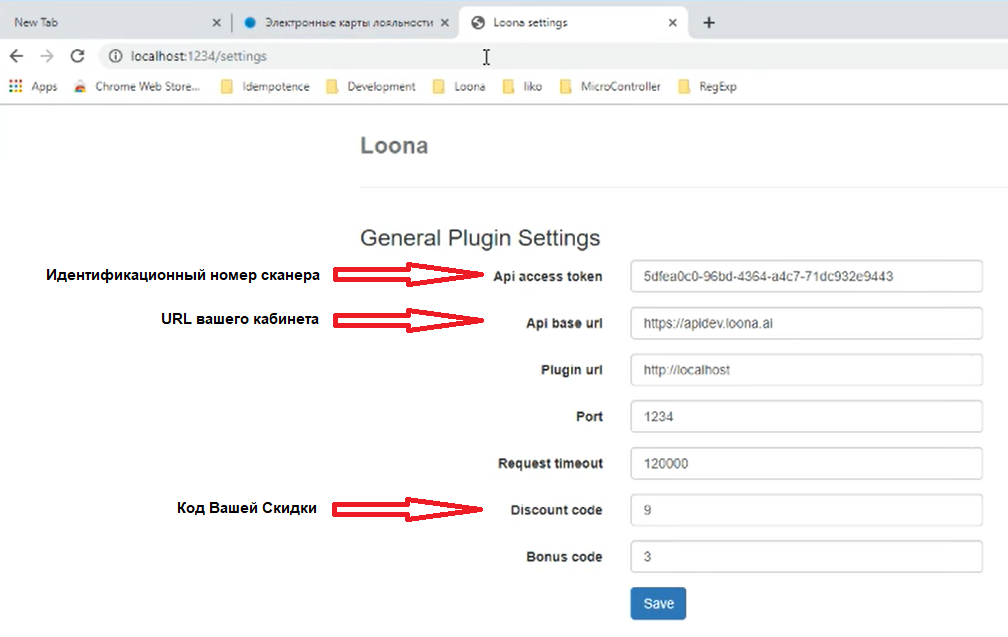
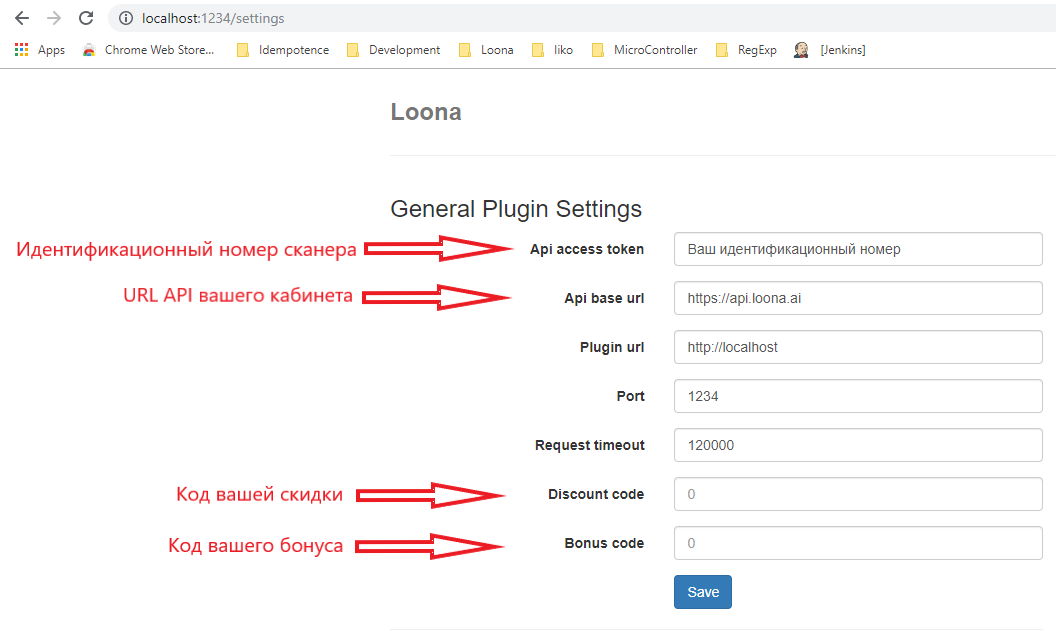
publish: Added scanner create and edit for iiko and rkeeper
generated from commit fb3f4aec2582de35fa8f2f8dd557f40efba5722a

diff --git a/guides/integration.html b/guides/integration.html
@@ -203,6 +203,9 @@
                   <li>
                     <a href="#b022bdab41-2" class="toc-h2 toc-link" data-title="Установка плагина">Установка плагина</a>
                   </li>
+                  <li>
+                    <a href="#4f6db5306b-2" class="toc-h2 toc-link" data-title="Настройки в кабинете">Настройки в кабинете</a>
+                  </li>
               </ul>
           </li>
       </div>
@@ -212,31 +215,26 @@
       <div class="content">
         <h1 id='iiko'>iiko</h1><h2 id='b022bdab41'>Установка плагина</h2>
 <ul>
-<li><p>Копируем папку LoonaPluginSettings в C:\Users\YourUserName\ProgramData\Roaming </p></li>
+<li><p>Копируем папку LoonaPluginSettings в C:\Users\YourUserName\ProgramData </p></li>
 <li><p>Копируем папки LoonaPlugin и iikoWaiter5 в директорию iikoFront/Plugins (в нашем случае C:\Program Files\iiko\iikoRMS\Front.Net\Plugins)</p></li>
 <li><p>Запускаем iiko Front (помним что для данного метода нужна лицензии типа iikoTableService, iikoWaiter, iikoFrontPaymentPlugin)</p></li>
-<li><p>В iiko Front переходим в раздел “Дополнения” и выбираем “Loona settings”.</p></li>
+<li><p>В iiko Front переходим в раздел “Дополнения” и выбираем “Loona settings”</p></li>
+<li><p>Введите Логин и Пароль</p></li>
 </ul>
 
-<blockquote>
-<p>Login - Admin<br>
-   Password - Loona Admin</p>
-</blockquote>
-
-<p><img src="../images/iiko1.PNG" width="910" height="456">
-- Задаем настройки</p>
-
-<blockquote>
-<p>Api access token - по запросу<br>
-    Api base url - https://apidev.loona.ai<br>
-    Waiter request url - http://localhost<br>
-    Waiter port - 1234</p>
-
-<p><img src="../images/iiko2.png" width="512" height="288" alt="Card Flip"></p>
-</blockquote>
+<p><img src="../images/iiko1.PNG" width="910" height="456"></p>
 
 <ul>
-<li>Открываем iiko Office
+<li><p>Задаем настройки:</p>
+
+<ul>
+<li>Api access token - по запросу<br></li>
+<li>Api base url - https://apidev.loona.ai<br></li>
+<li>Waiter request url - http://localhost<br></li>
+<li>Waiter port - 1234
+<img src="../images/iiko2.png" width="512" height="288" alt="Card Flip"></li>
+</ul></li>
+<li><p>Открываем iiko Office</p>
 
 <ul>
 <li>Переходим в раздел Дисконтная Система -&gt; Скидки и Надбавки</li>
@@ -259,34 +257,73 @@
 <li>Тип ставим “Фиксированная сумма” и обязательно устанавливаем галочку “Назначать сумму”</li>
 </ul>
 
-<p><img src="../images/iiko5.PNG" width="910" height="490" alt="Card Flip"></p>
+<p><img src="../images/iiko5.png" width="910" height="490" alt="Card Flip"></p>
 
 <ul>
 <li><p>Нажимаем Далее и заканчиваем установку скидки.</p></li>
 <li><p>Добавляем внешний вид оплаты. Переходим в раздел “Розничные продажи”  нажимаем на “Тип платы” и добавляем новую оплату. </p></li>
 <li><p>Обязательно указываем: </p>
 
-<blockquote>
-<p>Наименование - Loona Payment<br>
-    Тип - Внешний тип оплаты<br>
-    Название в чеке - пишите что хотите<br>
-    Безналичный тип - Loona Payment</p>
-</blockquote></li>
+<ul>
+<li>Наименование - LoonaPayment<br></li>
+<li>Тип - Внешний тип оплаты<br></li>
+<li>Название в чеке - пишите что хотите<br></li>
+<li>Безналичный тип - Loona Payment</li>
+</ul></li>
 <li><p>Сохраняем</p></li>
 </ul>
 
-<p><img src="../images/iiko6.png" width="512" height="266" alt="Card Flip"></p>
+<p><img src="../images/iiko6.png" width="665" height="345" alt="Card Flip"></p>
 
 <ul>
 <li><p>Устанавливаем мобильное приложение iikoWaiter5</p></li>
 <li><p>Перезагружаем iiko front</p></li>
 </ul>
-<h2 id='4f6db5306b'>Настройки в кабинете</h2><h1 id='r_keeper'>r_keeper</h1><h2 id='b022bdab41-2'>Установка плагина</h2>
+<h2 id='4f6db5306b'>Настройки в кабинете</h2><h3 id='6e3f1ab769'>Редактирование макета</h3>
+<p>Для использования скидок и бонусов в системе iiko штрихкод на карте должен содержать Номер Карты. Для настройки штрихкода на Номер Карты:</p>
+
+<ul>
+<li><p>Перейдите в раздел <strong>Макеты</strong></p></li>
+<li><p>Зайдите в <img src="../images/иконка%20редактирования.png" width="12" height="12" alt="редактирование"> <strong>редактирование</strong> того макета на который хотите настроить сканер</p></li>
+</ul>
+
+<p><img src="../images/Number%20scanner.png" width="624" height="588" alt="Card Design"></p>
+
+<ul>
+<li><p>Перейдите в секцию <strong>Дизайн</strong></p></li>
+<li><p>Нажмите на штрихкод, в настройках поля откроются настройки штрихкода</p></li>
+<li><p>Поменяйте значение на <strong>Номер Карты</strong></p></li>
+</ul>
+
+<p>Для использования купона:</p>
+
+<ul>
+<li><p>Обнаружить номер под которым продукта зарегистрирован в CRM системе</p></li>
+<li><p>В значении штрихкода поменять значение на “своё значение”</p></li>
+<li><p>Поменять своё значение на ${pid}/№Продукт, где “№Продукт” это номер под которым продукт зарегистрирован</p></li>
+<li><p>Использовать карты Loona</p></li>
+</ul>
+<h3 id='89af512b2f'>Создание сканера для карты</h3>
+<p>Для использования системы iiko вам необходимо использовать создать сканер для получения идентификационного номера. Этот сканер будет необходим для пользования интегрированой системой с iiko․</p>
+
+<p>Для создания нового сканера:</p>
+
+<p><img src="../images/maket_create.png" width="600" height="270" alt="Maket Create"></p>
+
+<ul>
+<li><p>В разделе Сканер нажмите на Создать сканер.</p></li>
+<li><p>Введите название нового сканера</p></li>
+<li><p>Выберите тип сканера - &quot;App&quot;.</p></li>
+<li><p>Выберите макеты с картами которые предназначены для сканирования, или отметьте Получить полный доступ чтобы сканер работал со всеми вашими макетами.</p></li>
+<li><p>Нажмите Создать</p></li>
+</ul>
+
+<p>В списке созданных сканеров появится новый сканер со своим <strong>Идентификационным номером</strong>, этот номер используется при настройке плагина</p>
+<h1 id='r_keeper'>r_keeper</h1><h2 id='b022bdab41-2'>Установка плагина</h2>
 <p>*В течении использования плагина, нужно выключить Windows Firewall или открыть доступ для порта плагина (port 1234)</p>
 
 <ul>
-<li><p>Скачайте папку Loona R-keeper</p></li>
-<li><p>Откройте папку Loona R-keeper</p></li>
+<li>  Скачайте и откройте папку плагина Loona</li>
 </ul>
 
 <p><img src="../images/rk1.png" width="747" height="190"></p>
@@ -396,16 +433,15 @@
 <li><p>Не закрывайте окно сервисов</p></li>
 <li><p>Затем откройте ваш браузер</p></li>
 <li><p>Введите адрес плагина в браузере, адрес: «localhost:1234/settings»</p></li>
-<li><p>Откроется поле настроек плагина. Введите необходимые параметры для настройки скидки и сохраните параметры. Код вашей скидки вам доступен в свойствах скидки в r_keeper manager.</p></li>
+<li><p>Откроется поле настроек плагина. Введите необходимые параметры для настройки скидки и сохраните параметры. Код вашей скидки вам доступен в свойствах скидки в r_keeper manager.</p>
+
+<ul>
+<li>Для получения Идентификационного номера сканера и URL кабинета обратитесь к документации кабинета Loona<br></li>
+<li>При изменениях порта на «XXXX», адрес плагина меняется на localhost:XXXX/settings (но нет необходимости менять порт) </li>
+</ul></li>
 </ul>
 
-<p><img src="../images/rk18.png" width="1008" height="637"></p>
-
-<blockquote>
-<p>Для получения Идентификационного номера сканера и URL кабинета обратитесь к документации кабинета Loona  </p>
-
-<p>При изменениях порта на «XXXX», адрес плагина меняется на localhost:XXXX/settings (но нет необходимости менять порт)  </p>
-</blockquote>
+<p><img src="../images/rk18.png" width="1008" height="637"> </p>
 
 <p><img src="../images/rk19.png" width="1219" height="714"></p>
 
@@ -415,6 +451,38 @@
 </ul>
 
 <p><img src="../images/rk20.png" width="1259" height="868"></p>
+<h2 id='4f6db5306b-2'>Настройки в кабинете</h2><h3 id='6e3f1ab769-2'>Редактирование макета</h3>
+<p>Для использования скидок и бонусов в системе r_keeper штрихкод на карте должен содержать Номер Карты. Для настройки штрихкода на Номер Карты:</p>
+
+<ul>
+<li><p>Перейдите в раздел <strong>Макеты</strong></p></li>
+<li><p>Зайдите в <img src="../images/иконка%20редактирования.png" width="12" height="12" alt="редактирование"> <strong>редактирование</strong> того макета на который хотите настроить сканер</p></li>
+</ul>
+
+<p><img src="../images/r_keeper%20maket%20settings.png" width="650" height="375" alt="Card Design"></p>
+
+<ul>
+<li><p>Перейдите в секцию <strong>Дизайн</strong></p></li>
+<li><p>Нажмите на штрихкод, в настройках поля откроются настройки штрихкода</p></li>
+<li><p>Поменяйте тип штрихкода на QR</p></li>
+<li><p>Поменяйте значение на <strong>Номер Карты</strong></p></li>
+</ul>
+<h3 id='89af512b2f-2'>Создание сканера для карты</h3>
+<p>Для использования системы r_keeper вам необходимо использовать создать сканер для получения идентификационного номера. Этот сканер будет необходим для пользования интегрированой системой с iiko․</p>
+
+<p>Для создания нового сканера:</p>
+
+<p><img src="../images/maket_create.png" width="600" height="270" alt="Maket Create"></p>
+
+<ul>
+<li><p>В разделе Сканер нажмите на Создать сканер.</p></li>
+<li><p>Введите название нового сканера</p></li>
+<li><p>Выберите тип сканера - &quot;App&quot;.</p></li>
+<li><p>Выберите макеты с картами которые предназначены для сканирования, или отметьте Получить полный доступ чтобы сканер работал со всеми вашими макетами.</p></li>
+<li><p>Нажмите Создать</p></li>
+</ul>
+
+<p>В списке созданных сканеров появится новый сканер со своим <strong>Идентификационным номером</strong>, этот номер используется при настройке плагина.</p>
 
       </div>
     </div>

diff --git a/guides/loona-guide.html b/guides/loona-guide.html
@@ -459,7 +459,7 @@
 
 <p>Сканер со своим сгенерированным Пин-кодом будет добавлен в список сканеров. </p>
 <h1 id='a8016fb95b'>Личный кабинет</h1>
-<p>В личный кабинет можно пройти с любого места в кабинете, нажав на <img src="../images/иконка%20настроек.png" width="13" height="13" alt="настройки"> настройки.</p>
+<p>В личный кабинет можно пройти с любого места в кабинете, нажав на <img src="../images/иконка%20настроек.PNG" width="15" height="15" alt="настройки"> настройки.</p>
 <h2 id='e69b222112'>Настройки профиля</h2>
 <p>В разделе &quot;Профиль&quot; доступны изменения в профиле пользователя и в профиле компании, нажав на &quot;Редактироать&quot; в соответствующем поле. В настройках профиля можно подписаться на нашу информационную рассылку. Так же в нижней части раздела можно удалить данный аккаунт.</p>
 <h2 id='ab44c67a06'>Подписка и тарифы</h2>
